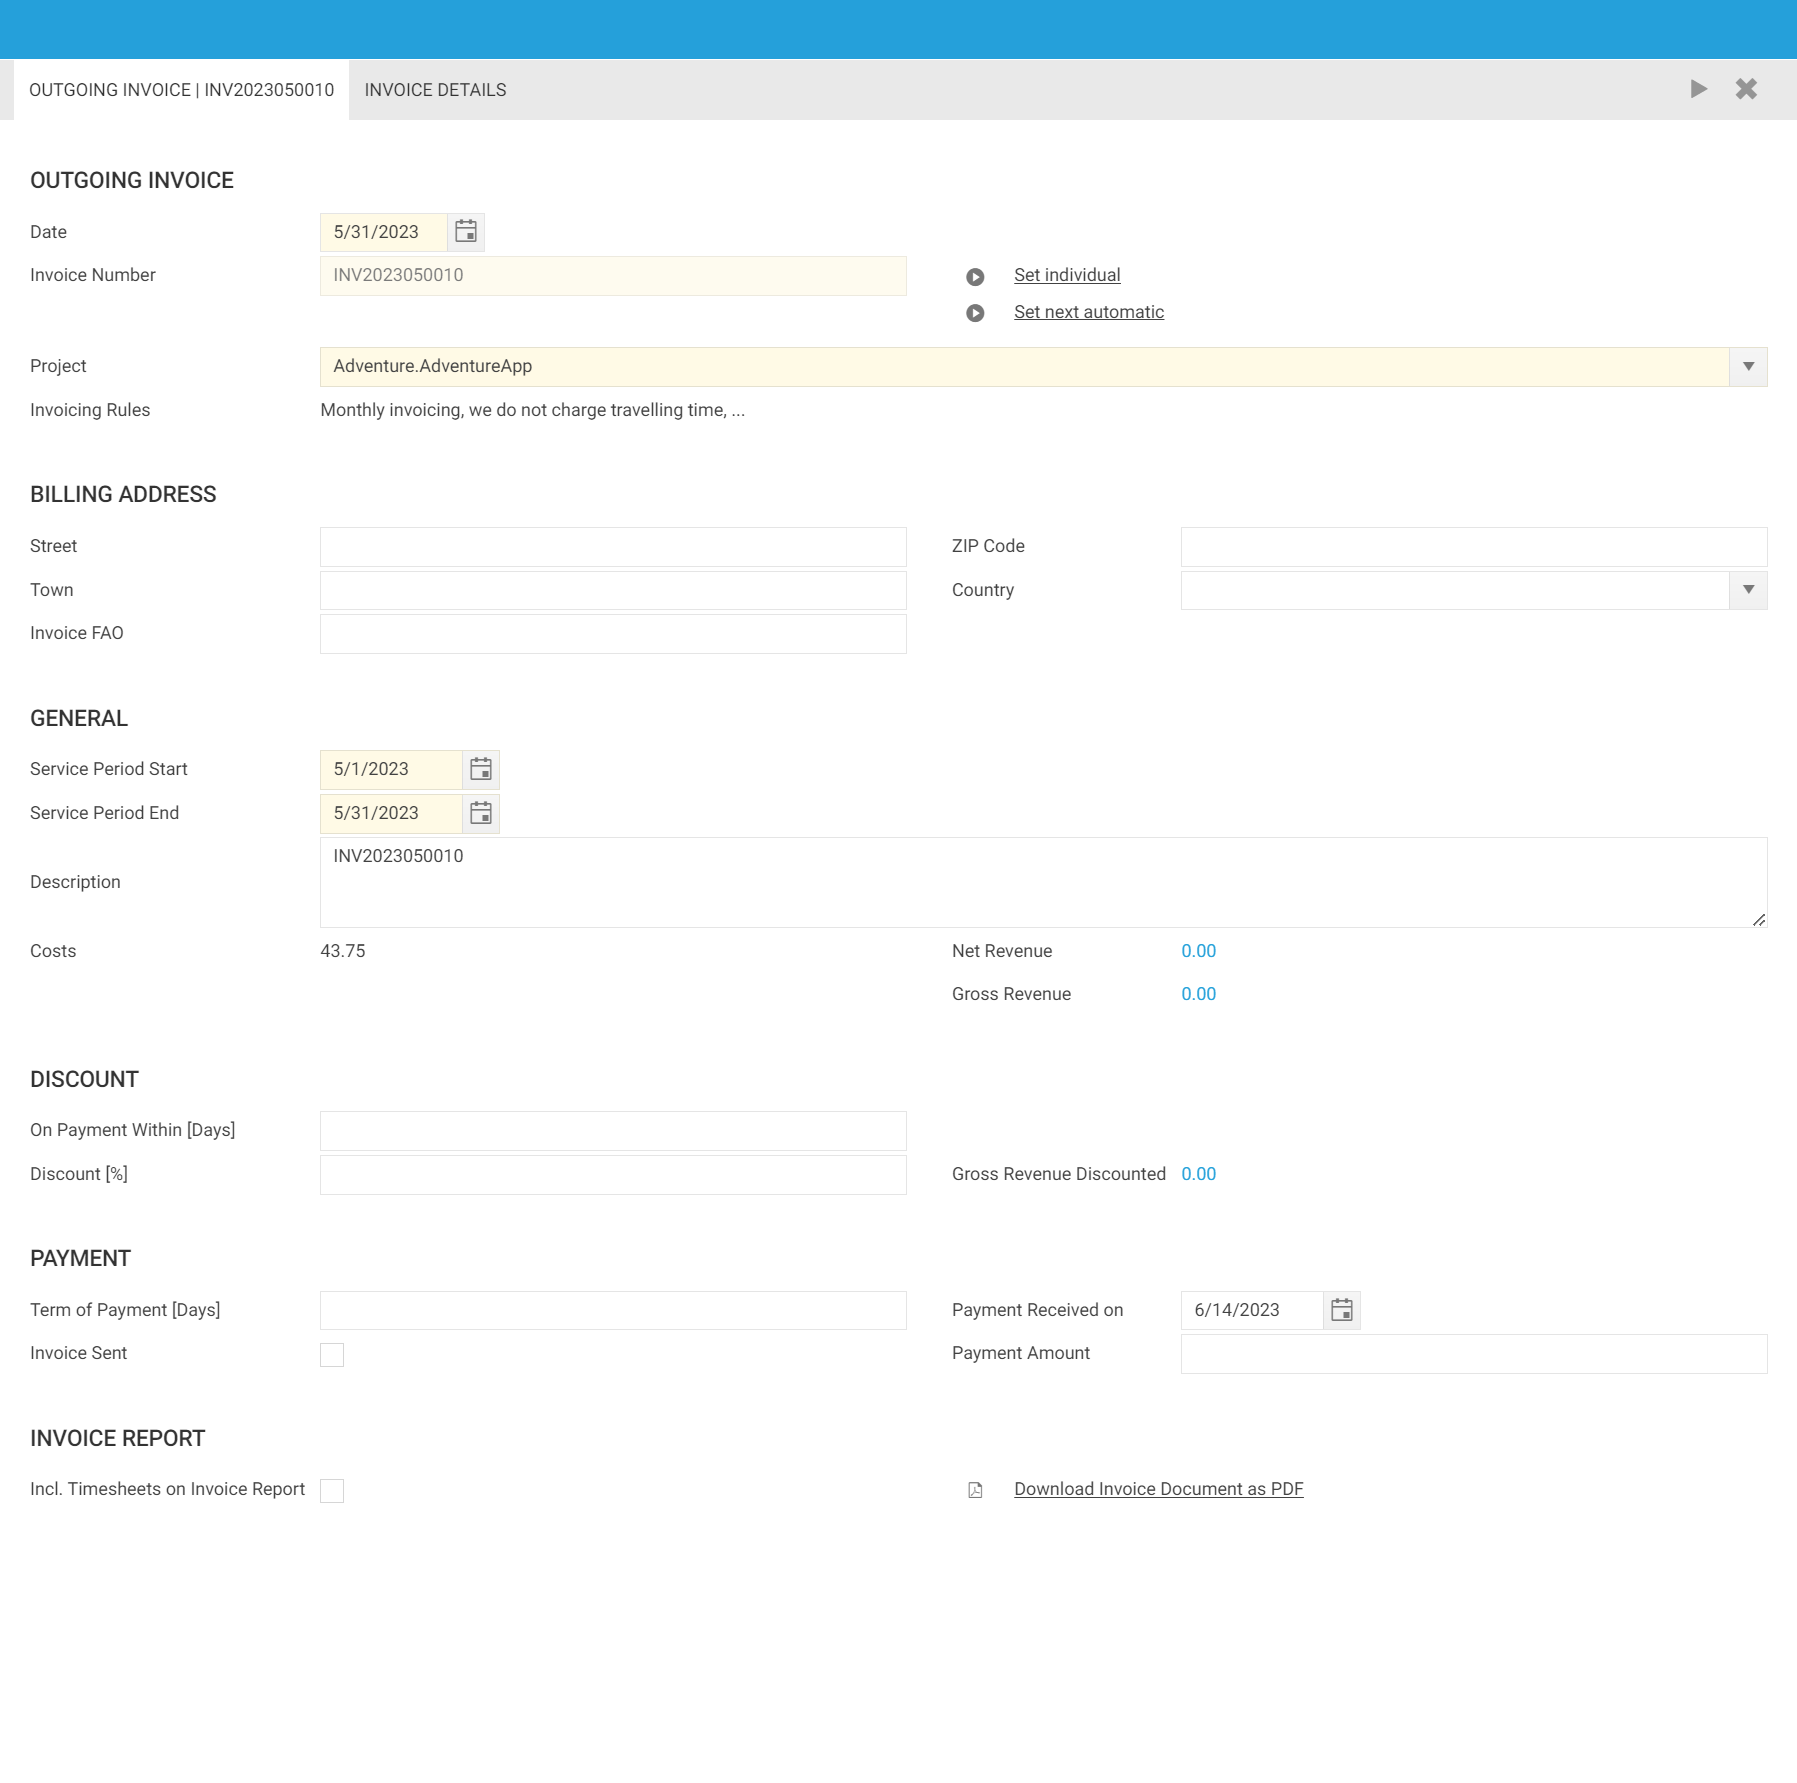
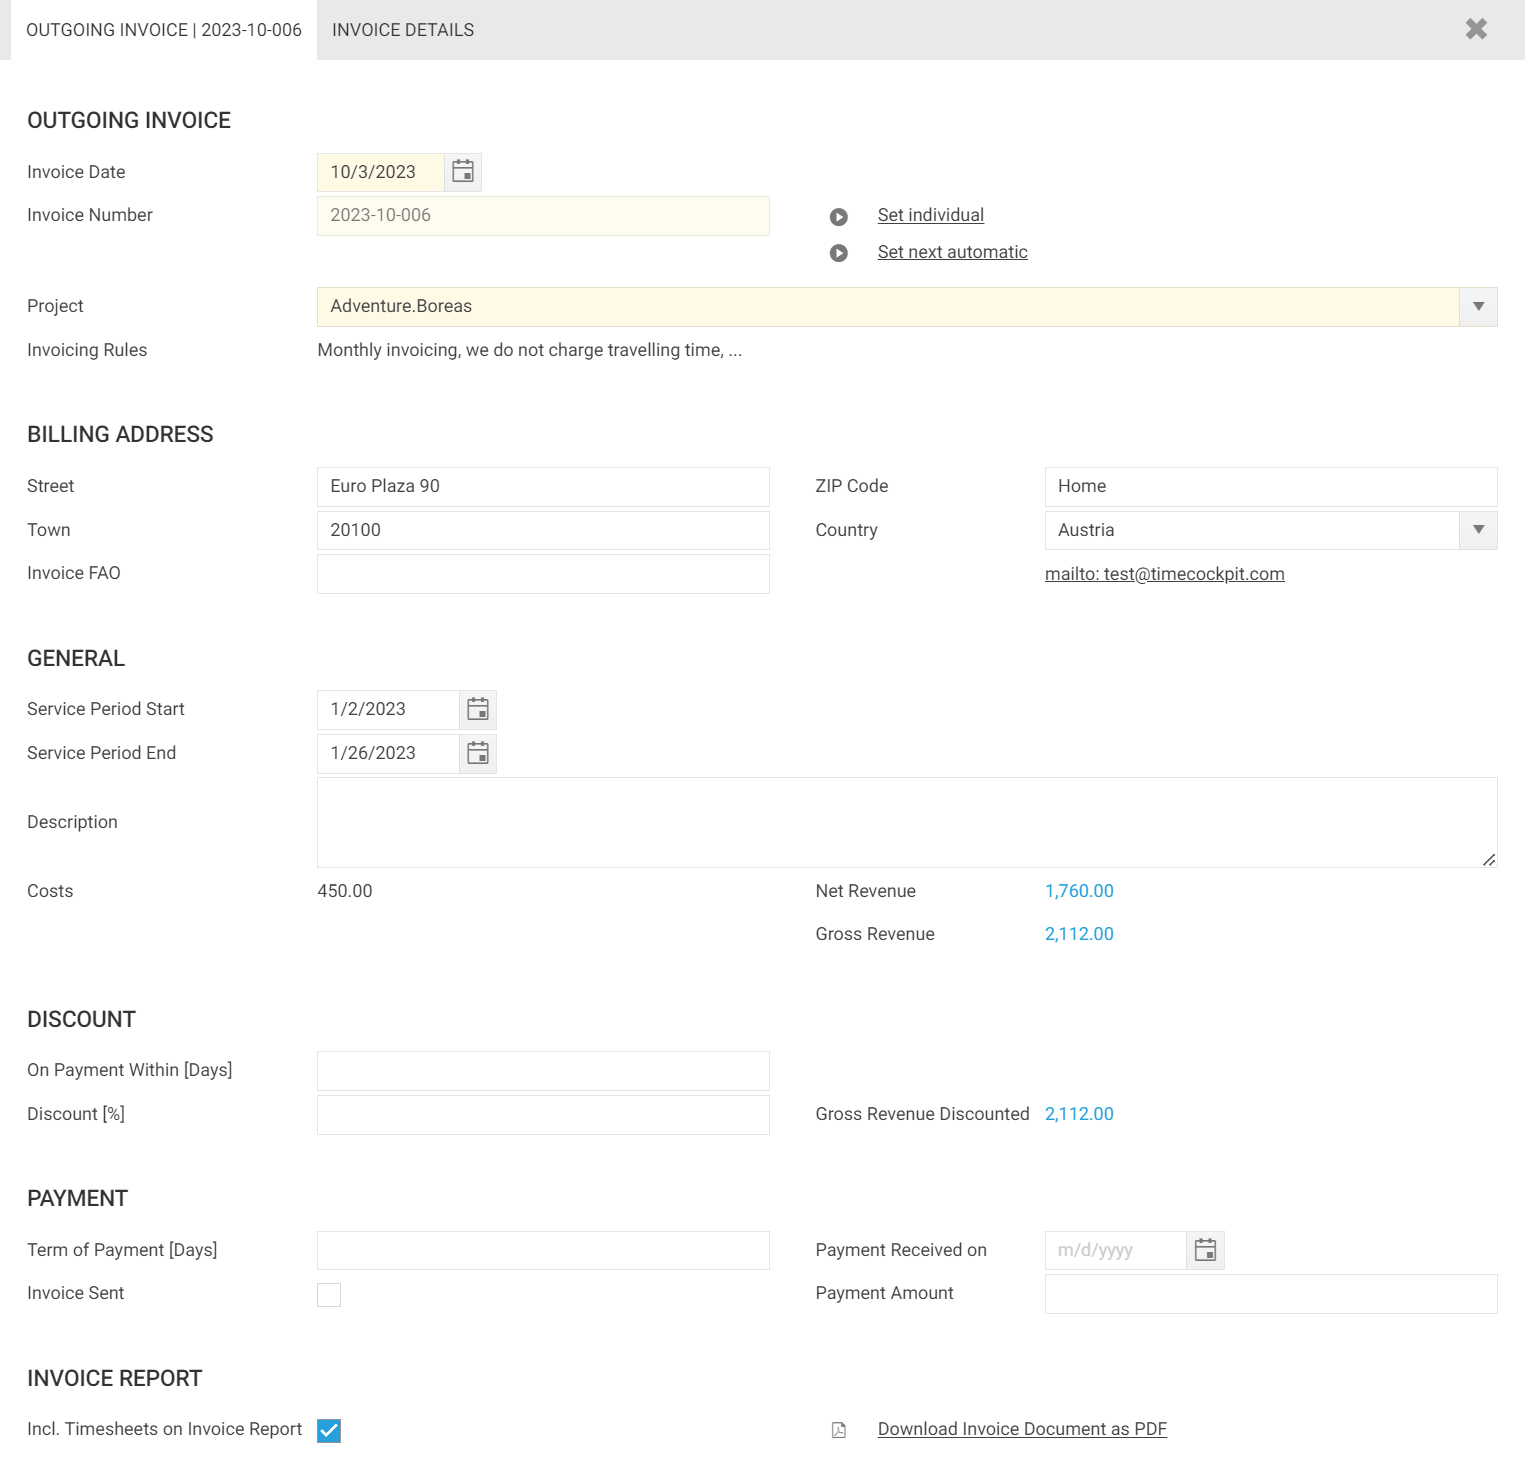
invoice report fields

diff --git a/doc/project-time-tracking/invoice-data-fields.md b/doc/project-time-tracking/invoice-data-fields.md
@@ -4,37 +4,64 @@ This section provides a detailed overview of the most important data fields rela
 
 ![Invoice](images/invoice.png "Invoice")
 
-## Invoice Number
-Time cockpit can automatically create an invoice number for your next invoice. Per default, it will create an invoice number following the pattern: `:FormatDate(@InvoiceDate, "yyyy") + '-' + :FormatDate(@InvoiceDate, "MM") + '-'`. That is, if you create an invoice in October 2023, it will create the prefix **2023-10-** and add a sequential number for the invoice, e.g. **2023-10-001**. You can control the pattern of the invoice number in your [global settings](https://web.timecockpit.com/app/lists/entity/APP_GlobalSettings).
+## Outgoing Invoice Section
+
+### Invoice Date
+When using the action `Create Invoice`, the invoice date field will be automatically set to the current date. However, when creating an invoice manually, you have to set this field according to your preferences.
+
+### Invoice Number
+Time cockpit can automatically create an invoice number for your next invoice. Per default, it will create an invoice number following the pattern: `:FormatDate(@InvoiceDate, "yyyy") + '-' + :FormatDate(@InvoiceDate, "MM") + '-'`. That is, if you create an invoice in October 2023, it will create the prefix **2023-10-** and add a sequential number for the invoice, e.g. **2023-10-001**. You can control the pattern of the invoice number in your [global settings](https://web.timecockpit.com/app/lists/entity/APP_GlobalSettings). 
 
 ![Invoice](images/global-settings-invoice-number.png "Invoice")
 
 If you want to set a custom invoice number for a single invoice, you can use the `Set individual` action and set your custom invoice number. 
 
-## Billing Address
+### Invoice Rules
+This information is derived from the invoicing rules specific to the project corresponding to the invoice.
+
+## Billing Address Section
+
 The billing address is required for generating the invoice document. Per default, the billing address is derived from the billing address of the customer. However, you can override the billing address for each invoice. To manage the billing address of your customers navigate to your [customer list](https://web.timecockpit.com/app/lists/entity/APP_Customer).
 
-The address also has impact on your invoice document in regard to VAT. If your customers address is in the European Union, the text "information for the calculation and remittance of value-added tax" is added to your invoice document. 
+>[!NOTE]
+The address also has impact on your invoice document in regard to VAT. Please take a look at [Invoice Data Fields](~/doc/project-time-tracking/billing.md) - Generate an Invoice Report.
 
-TODODOD
+## General Section
 
-. In the master data of the Countries, a new field 'EU Member' has been added. This controls the display of information on the invoice document (information for the calculation and remittance of value-added tax). This text is included on the invoice document when an invoice with invoice items without value-added tax is created. The text to be printed differs depending on whether a country is an EU member or not.
-
-## Service Period Start and End
+### Service Period Start and End
 
 The start and end date is printed on the invoice document. If the invoice is created using `Create Invoice` on selected time sheet entries, the service period is automatically determined according to the first and last time entry.
 
-## Calculated and Deviating Revenue
+### Net Revenue
+
+In an invoice, the `Net Revenue` represents the total earnings derived from all invoice items assigned to the invoice. This figure provides the overall revenue generated, excluding any Value Added Tax (VAT). 
+
+### Gross Revenue
+
+In an invoice, the `Gross Revenue` represents the total earnings derived from all invoice items assigned to the invoice **including** Value Added Tax (VAT) for the corresponding invoice items.
+
+### Calculated and Deviating Revenue [Depracated]
 
 > [!NOTE]
-In past versions of time cockpit, it provided the fields `Calculated Revenue` and `Deviating Revenue`. Both fields are no longer required for future invoices. We recommend disabling the display of these fields in the global settings. For existing invoices, the value entered in the 'Deviating Net Revenue' field is still considered in the 'Net Revenue' field. It is not possible to simultaneously use deviating revenue and invoice items in a single invoice.
+In past versions of time cockpit provided the fields `Calculated Revenue` and `Deviating Revenue`. Both fields are no longer required for future invoices. We recommend disabling the display of these fields in the [global settings](https://web.timecockpit.com/app/lists/entity/APP_GlobalSettings). For existing invoices, the value entered in the 'Deviating Net Revenue' field is still considered in the 'Net Revenue' field. It is not possible to simultaneously use deviating revenue and invoice items in a single invoice.
 
-The calculated revenue, when generating invoices based on time entries using the `Create Invoice` action, is now recorded in one or more invoice items. The determination of unit and VAT for invoice items is based on the standard item 'Service' (Code: serviceTime). The descriptions of the invoice items correspond to the project (or activity) to which they were booked.
+## Discount Section
 
-If one of the time entries to be billed has also filled in the 'Driven KM by Car' field, an additional invoice item 'Travel Expenses' is created. This includes the total distance traveled in all selected time entries. The determination of description, unit, price, and VAT for the invoice item is based on the standard item 'Travel Costs' (Code: travelCosts).
+When creating an invoice in time cockpit, you have the option to offer payment discounts to your customers. This feature allows you to define a date by which, if the customer pays before that date, they are entitled to a discounted price.
 
-The automatically generated invoice items can be adjusted as needed or supplemented with additional invoice items.
+To set up the payment discount:
 
-## Create Articles
+1. Enter a numeric value in the `On Payment Within [Days]` field to specify the number of days within which the customer must make the payment to qualify for the discount.
 
-## Create Custom Invoice Positions
+2. In the `Discount [%]` field, enter the percentage of the discount offered to the customer.
+
+Once you've configured these settings, time cockpit will automatically calculate and display the `Discount Due Date` to avail of the discount. Additionally, the system will calculate the `Gross Revenue Discounted` for your convenience.
+
+>[!NOTE]
+If you set the `Payment Received On` date on the invoice and it falls within the discount period, time cockpit will automatically prefill the `Payment Amount` with the value for `Gross Revenue Discounted`.
+
+## Invoice Report Section
+
+In this section, you can configure and generate a PDF version of the invoice. To begin report generation for your invoice, simply use the `Download Invoice Document as PDF` option.
+
+Additionally, you can use the `Incl. Timesheets on Invoice Report` flag to specify whether the invoice report should include time sheet entry details for each invoice item. This flag provides control over the level of detail in your invoice report.

diff --git a/doc/project-time-tracking/billing.md b/doc/project-time-tracking/billing.md
@@ -4,7 +4,7 @@ Time cockpit not only serves as a time tracking tool, but also enables streamlin
 
 ## Building Blocks of an Invoice
 
-In time cockpit, an invoice does not exist on its own, but is composed of different building blocks. 
+In time cockpit, an invoice does not exist on its own, but is composed of different building blocks. For a comprehensive description about an invoice refer to [Invoice Data Fields](~/doc/project-time-tracking/invoice-data-fields.md).
 
 ### Invoice Item
 
@@ -23,6 +23,9 @@ An invoice item consists of the following data:
 - **Total (incl. VAT):** The total cost including VAT.
 
 ![Invoice Item](images/invoice-item.png "Invoice Item")
+
+> [!NOTE]
+Invoice items within an invoice may have varying VAT rates, which are appropriately reflected in the invoice document. Additionally, credit notes can be generated using negative values.
 
 ### Article
 
